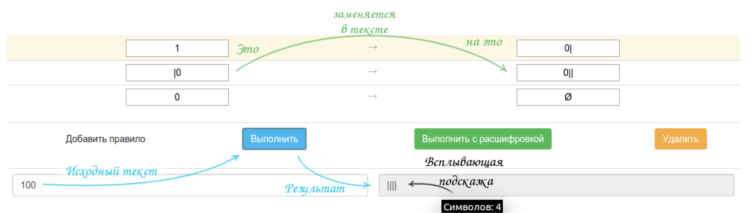
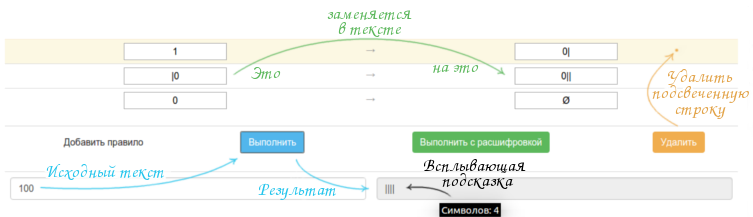
MNA: improve UI
- add 'tip'-arrow for remove-button on mna_guide.png
- add short description for UI, example selector and step-limit selector
- define tooltips. Use bootstrap version of it
- change 'decoded_text' field, length of it now displays by
  'bagde'-element

diff --git a/pages/mna.html b/pages/mna.html
@@ -1,74 +1,100 @@
 <!DOCTYPE html>
 <html lang="en">
   <head>
-    <meta charset="utf-8">
-    <meta http-equiv="X-UA-Compatible" content="IE=edge">
-    <meta name="viewport" content="width=device-width, initial-scale=1">
-    <!-- The above 3 meta tags *must* come first in the head; any other head content must come *after* these tags -->
-    <title>InvOpps: MNA</title>
-
-    <!-- Bootstrap -->
-	<link href="../css/bootstrap.min.css" rel="stylesheet">
-   <link href="../css/font-awesome.min.css" rel="stylesheet">
-   <link href="../css/main.css" rel="stylesheet">
-   <link href="../css/folding.css" rel="stylesheet">
-
-    <!-- HTML5 shim and Respond.js for IE8 support of HTML5 elements and media queries -->
-    <!-- WARNING: Respond.js doesn't work if you view the page via file:// -->
-    <!--[if lt IE 9]>
-      <script src="https://oss.maxcdn.com/html5shiv/3.7.2/html5shiv.min.js"></script>
-      <script src="https://oss.maxcdn.com/respond/1.4.2/respond.min.js"></script>
-    <![endif]-->
+	  <meta charset="utf-8">
+	  <meta http-equiv="X-UA-Compatible" content="IE=edge">
+	  <meta name="viewport" content="width=device-width, initial-scale=1">
+	  <!-- The above 3 meta tags *must* come first in the head; any other head content must come *after* these tags -->
+	  <title>InvOpps: MNA</title>
+	 
+	  <!-- Bootstrap -->
+	 <link href="../css/bootstrap.min.css" rel="stylesheet">
+	 <link href="../css/font-awesome.min.css" rel="stylesheet">
+	 <link href="../css/main.css" rel="stylesheet">
+	 <link href="../css/folding.css" rel="stylesheet">
+	 
+	 <script src="../js/mna.js"></script>
+	 <!-- jQuery (necessary for Bootstrap's JavaScript plugins) -->
+	 <script src="https://ajax.googleapis.com/ajax/libs/jquery/1.11.3/jquery.min.js"></script>
+	 <!-- Include all compiled plugins (below), or include individual files as needed -->
+	 <script src="../js/bootstrap.min.js"></script>
   </head>
   <body>
-    <header id="header" role="banner">
-        <div class="container">
-            <div id="navbar" class="navbar navbar-default">
-                <div class="navbar-header">
-                    <button type="button" class="navbar-toggle" data-toggle="collapse" data-target=".navbar-collapse">
-                        <span class="sr-only">Toggle navigation</span>
-                        <span class="icon-bar"></span>
-                        <span class="icon-bar"></span>
-                        <span class="icon-bar"></span>
-                    </button>
-                    <a class="navbar-brand" href="../index.html"><img src="../images/spu.png"></a>
-                </div>
-                <div class="collapse navbar-collapse">
-                    <ul class="nav navbar-nav">
-                        <li class="active"><a href="../index.html"><i class="icon-home"></i></a></li>
-                        <li><a href="#calculations">Calculations</a></li>
-                        <li><a href="#">About method</a></li>
-                    </ul>
-                </div>
+	  <header id="header" role="banner">
+		  <div class="container">
+			  <div id="navbar" class="navbar navbar-default">
+				  <div class="navbar-header">
+					  <button type="button" class="navbar-toggle" data-toggle="collapse" data-target=".navbar-collapse">
+							<span class="sr-only">Toggle navigation</span>
+							<span class="icon-bar"></span>
+							<span class="icon-bar"></span>
+							<span class="icon-bar"></span>
+					  </button>
+					  <a class="navbar-brand" href="../index.html"><img src="../images/spu.png"></a>
+				 </div>
+				 <div class="collapse navbar-collapse">
+					  <ul class="nav navbar-nav">
+							<li class="active"><a href="../index.html"><i class="icon-home"></i></a></li>
+							<li><a href="#calculations">Calculations</a></li>
+							<li><a href="#about">About</a></li>
+					  </ul>
+				 </div>
             </div>
         </div>
-    </header>
-	<section id="main-slider-calc">
-	</section>
+	  </header>
+	  <section id="main-slider-calc"></section>
 	
-<section id="calculations">
 <div class="container">
 <div class="box first">
-<div class="row">
 	
 	<div class="center">
 		<h2>Марковские нормальные алгоритмы</h2>
 		<p class="lead"></p>
 	</div>
-	  <!--a role="button" class="btn btn-default" href="../index.html">Заглавная</a-->
-	  <!--div class="container starter-template">
-		  <h1>Марковские нормальные алгоритмы</h1>
-	  </div-->
 
 	<div class="panel-group" id="#accordion">
 		<div class="panel panel-info">
 			<div class="panel-heading">
-				<h4 class="panel-title text-centered">
+				<h4 class="panel-title">
 					<a data-toggle="collapse"  data-parent="#accordion" href="#collapseOne">Что происходит на данной страничке?</a>
 				</h4>
 			</div>
 			<div id="collapseOne" class="panel-collapse collapse in">
-            <div class="panel-body text-info"><img src="../images/mna_guide.png" alt="Очень жаль, что не сработало"></div>
+            <div class="panel-body text-info">
+					Эта странница предлагает в ваше распоряжение инструмент для построения <a href="#about">нормальных алгоритмов Маркова</a> - одного из существующих способов формально определить алгоритм. Иллюстрации ниже призвана прояснить для вас его интерфейс. 
+					<br><br>
+					<div class = "text-center"><img src="../images/mna_guide.png" alt="Очень жаль, что не сработало"></div>
+					<br><p>Рабочее пространство разделено на три зоны: таблицу <i>правил</i>, блок кнопок и поля ввода/вывода.</p>
+					<p>Каждое правило состоит из <i>ключа</i> (левая колонка) и <i>подстановки</i>. Во время выполнения, в определенной последовательности, каждый ключ заменяется на соответствующую ему подстановку. Чтобы окончательно прояснить всю эту схему, можете запустить один из тестовых примеров - если нажать на зеленую кнопку, то получите пошаговое описание.</p>
+					<br>
+					<div class="row text-center">
+						<div class="col-xs-6 col-md-6">
+							<div class="input-group" data-toggle="tooltip" data-placement="top"
+								title="Демонстрационные наборы правил для ознакомления с сабжем">
+								<span class="input-group-addon">Примеры:</span>
+								<select class="form-control" onchange="load_example(parseInt(this.value))">
+									<option value="0">Ничего</option>
+									<option value="1">Из бинарной в унарную</option>
+									<option value="2"></option>
+									<option value="3"></option>
+									<option value="4"></option>
+								</select>
+							</div>	
+						</div>
+						<div class="col-xs-6 col-md-6">
+							<div class="input-group" data-toggle="tooltip" data-placement="top" id="limit"
+								title="Верхнее ограничение на количество итераций алгоритма. Помогает избежать зависания">
+								<span class="input-group-addon">Ограничение:</span>
+								<select class="form-control" onchange="set_limit(parseFloat(this.value))">
+									<option value="0.5" >500 шагов</option>
+									<option value="1" selected>1000 шагов</option>
+									<option value="2"> 2000 шагов</option>
+									<option value="5"> 5000 шагов</option>
+								</select>
+							</div>	
+						</div>
+					</div>
+				</div>
 			</div>
 		</div>
 		<div class="panel panel-info text-info">
@@ -82,37 +108,70 @@
 			</div>
 		</div>
 	</div>
+
 	<hr>
 
 	<br>
 	<br>
-	 <table class="table table-hover table-condensed text-center" id="MNA_scheme">
-	 </table>
+<section id="calculations">
+	 <table class="table table-hover table-condensed text-center" id="MNA_scheme"></table>
 	 <table class="table text-center" id="MNA_control_elements">
 		<tr>
-			<td><input id="clickMe" class="btn btn-default" type="button" value="Добавить правило" onclick="add_new_rule();"/></td>
-			<td><input id="clickMe" class="btn btn-primary" type="button" value="Выполнить" onclick="mna(false);"/></td>
-			<td><input id="clickMe" class="btn btn-success" type="button" value="Выполнить с расшифровкой" onclick="mna(true);"/></td>
-			<td><input id="removeBut" class="btn btn-default" type="button" value="Очистить" onclick="clean_rules();"/></td>
+			<td>
+				<input class="btn btn-default" type="button" value="Добавить правило" onclick="add_new_rule();"
+					data-toggle="tooltip" data-placement="top" data-delay="500" 
+					title="С тем же эффектом можно нажать 'Enter' при фокусе на поле ввода таблицы" />
+			</td>
+			<td>
+				<input class="btn btn-primary" type="button" value="Выполнить" onclick="mna(false);"
+					data-toggle="tooltip" data-placement="top" data-delay="500" 
+					title="Алгоритм обработает введенный тест и покажет ответ" />
+			</td>
+			<td>
+				<input class="btn btn-success" type="button" value="Выполнить с расшифровкой" onclick="mna(true);"
+					data-toggle="tooltip" data-placement="top" data-delay="500"
+					title="Алгоритм обработает текст и распишет каждый свой шаг" />
+			</td>
+			<td>
+				<input id="removeBut" class="btn btn-default" type="button" value="Очистить" onclick="clean_rules('MNA_scheme');"
+					data-toggle="tooltip" data-placement="top" data-delay="500" 
+					title="Очистить таблицу правил" />
+			</td>
 		</tr>
 	 </table>
-	 <table class="table text-center">
-		 <tr>
-			<td><input id="coded_text" type="text" class="form-control" onclick="this.select()" value="Текст, над которым алгоритм будет работать" /></td>
-			<td><input id="decoded_text" data-toggle="tooltip" title="Подсказка по количеству символов" type="text" class="form-control" disabled value="Место для обработанного текста"/></td>
-		</tr>
-	 </table>
+	 <hr>
+	 <div class="row text-center">
+		 <div class="col-xs-6 col-md-6">
+			 <input id="coded_text" type="text" class="form-control" onclick="this.select()" 
+					data-toggle="tooltip" data-placement="bottom" value="Текст, над которым алгоритм будет работать"
+					title="Текст, над которым алгоритм будет работать"/>
+		 </div>
+		 <div class="col-xs-6 col-md-6">
+			 <ul type="text" data-toggle="tooltip" data-placement="bottom" class="list-group" title="Результат работы алгоритма">
+					<li class="list-group-item" style="height: 35px; padding: 7px 15px;">
+						<span id="decoded_text">Место для обработанного текста</span> 
+						<span id="size_tip" data-toggle='tooltip' data-placement='right' title='Кол-во символов' class='badge'>29</span>
+					</li>
+			 </ul>
+		</div>
+	 </div>
 	 <div class="container"><table class="table text-center table-bordered" id="log"></table></div>
 
-</div>
-</div>
-</div>
 </section>
+</div>
+</div>
 
-    <script src="../js/mna.js"></script>
-	<!-- jQuery (necessary for Bootstrap's JavaScript plugins) -->
-	<script src="https://ajax.googleapis.com/ajax/libs/jquery/1.11.3/jquery.min.js"></script>
-    <!-- Include all compiled plugins (below), or include individual files as needed -->
-    <script src="../js/bootstrap.min.js"></script>
+<section id="about"></section>
+
+		<script>
+			<!-- Enable tooltips -->
+			$(document).ready(function(){
+				 $('[data-toggle="tooltip"]').tooltip();   
+			});
+			<!-- Refresh tooltip -->
+			$("#MNA_scheme").on("click", function(){
+				$('#removeBut').tooltip('fixTitle');
+			});
+		</script>
   </body>
 </html>

diff --git a/js/mna.js b/js/mna.js
@@ -5,6 +5,26 @@ var input_field_end = "' onkeydown='mna_typing(event)'>";
 var selected_row = null;
 var max_allowed_steps_count = 1000;
 
+function load_example(index){
+	switch( index ){
+		case 0:
+			clean_rules("MNA_scheme");
+			clean_rules("log");
+			break;
+		case 1:
+			add_rule("1", "0|");
+			add_rule("|0", "0||");
+			add_rule("0", empty_symbol);
+			var example = Math.floor((Math.random() * 16) + 1);
+			document.getElementById("coded_text").value = example.toString(2);
+			break;
+	}
+}
+
+function set_limit(number){
+	max_allowed_steps_count = number*1000; // in kilo-steps
+}
+
 function mna_typing(e){
 	var keyCode = (e || window.event).keyCode;
 	var rows = document.getElementById("MNA_scheme").rows
@@ -29,10 +49,12 @@ function switch_button(to_def_state){
 	if( to_def_state ){
 		button.className = "btn btn-default";
 		button.value = "Очистить";
+		button.title = "Очистить таблицу правил"
 		button.onclick = function(){ clean_rules("MNA_scheme"); clean_rules("log") };
 	} else {
 		button.className = "btn btn-warning";
 		button.value = "Удалить";
+		button.title = "Удалить выбранное правило"
 		button.onclick = delete_row;
 	}
 }
@@ -90,7 +112,6 @@ function mna(need_log){
 	var task = document.getElementById("coded_text").value;
 	var keys = document.getElementById("MNA_scheme").rows
 	var log = document.getElementById("log");
-	var to = document.getElementById("decoded_text");
 
 	var keep_subst = true;
 	var rule = null;
@@ -155,8 +176,8 @@ function mna(need_log){
 		}
 	}
 
-	to.value = task;
-	to.title = "Символов: " + task.length;
+	document.getElementById("decoded_text").innerHTML = task;
+	document.getElementById("size_tip").innerHTML = task.length;
 	if( need_log ){
 		var searhed_keys = log_row.insertCell(0);
 		var substitution = log_row.insertCell(1);
